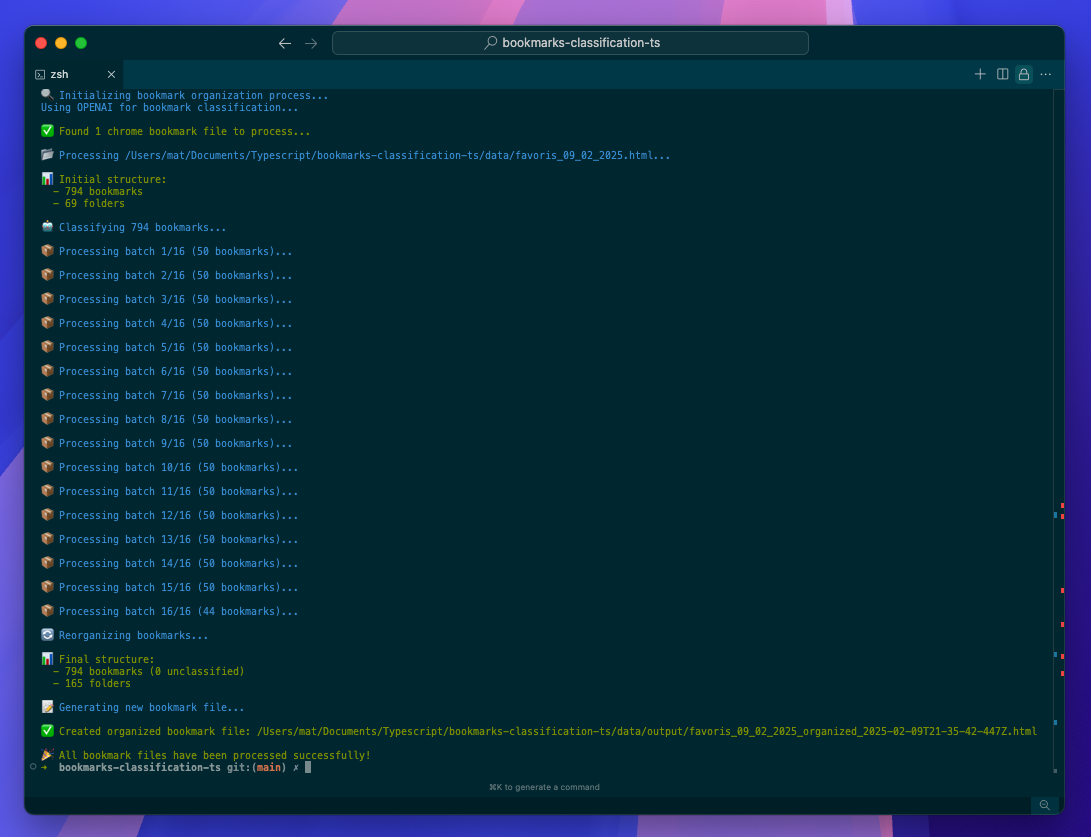
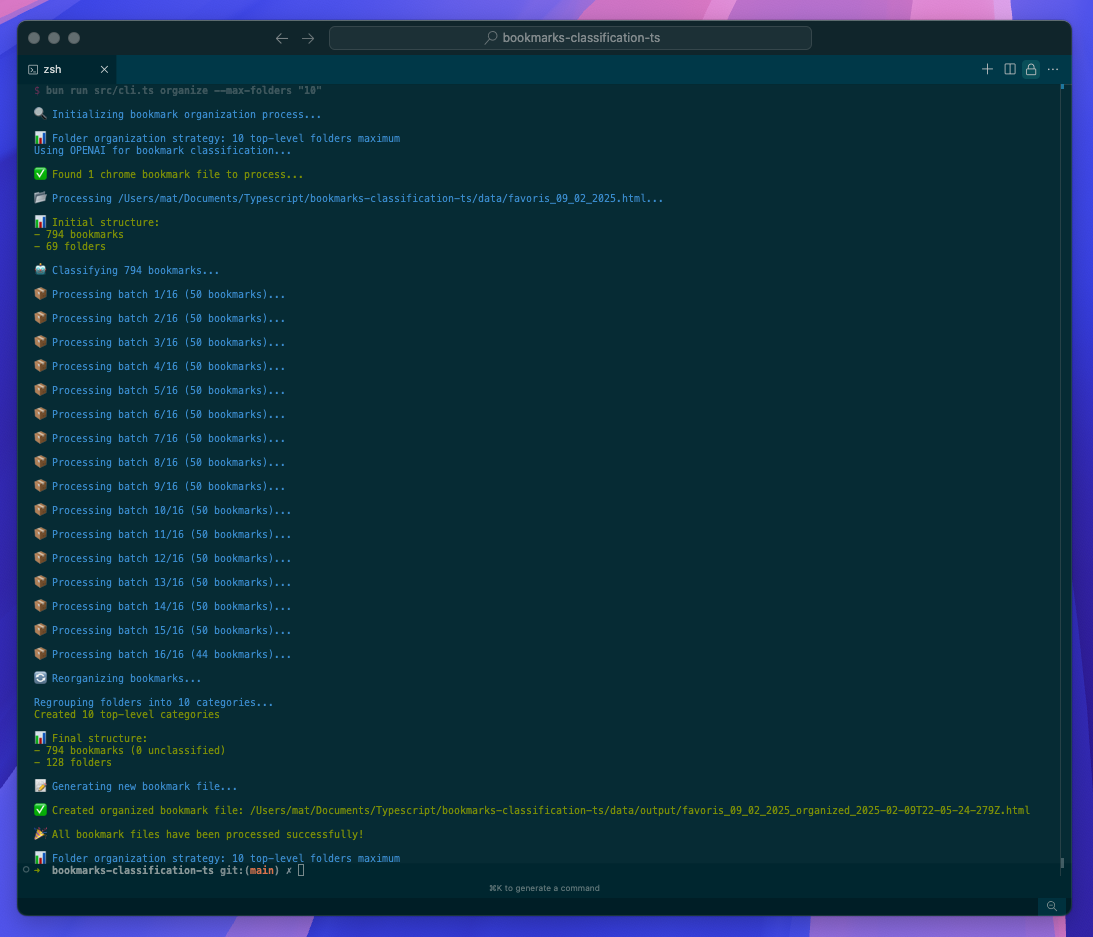
fix(docs): update image with new top-level directory strategy

Changed region(s): [[0.0, 0.0, 1.0, 1.0]]

diff --git a/README.md b/README.md
@@ -16,7 +16,7 @@ Automatically organize and classify your browser bookmarks using AI.
 
 ```bash
 # Clone the repository
-git clone [your-repo-url]
+git clone [repo-url]
 cd bookmarks-classification-ts
 
 # Install dependencies
